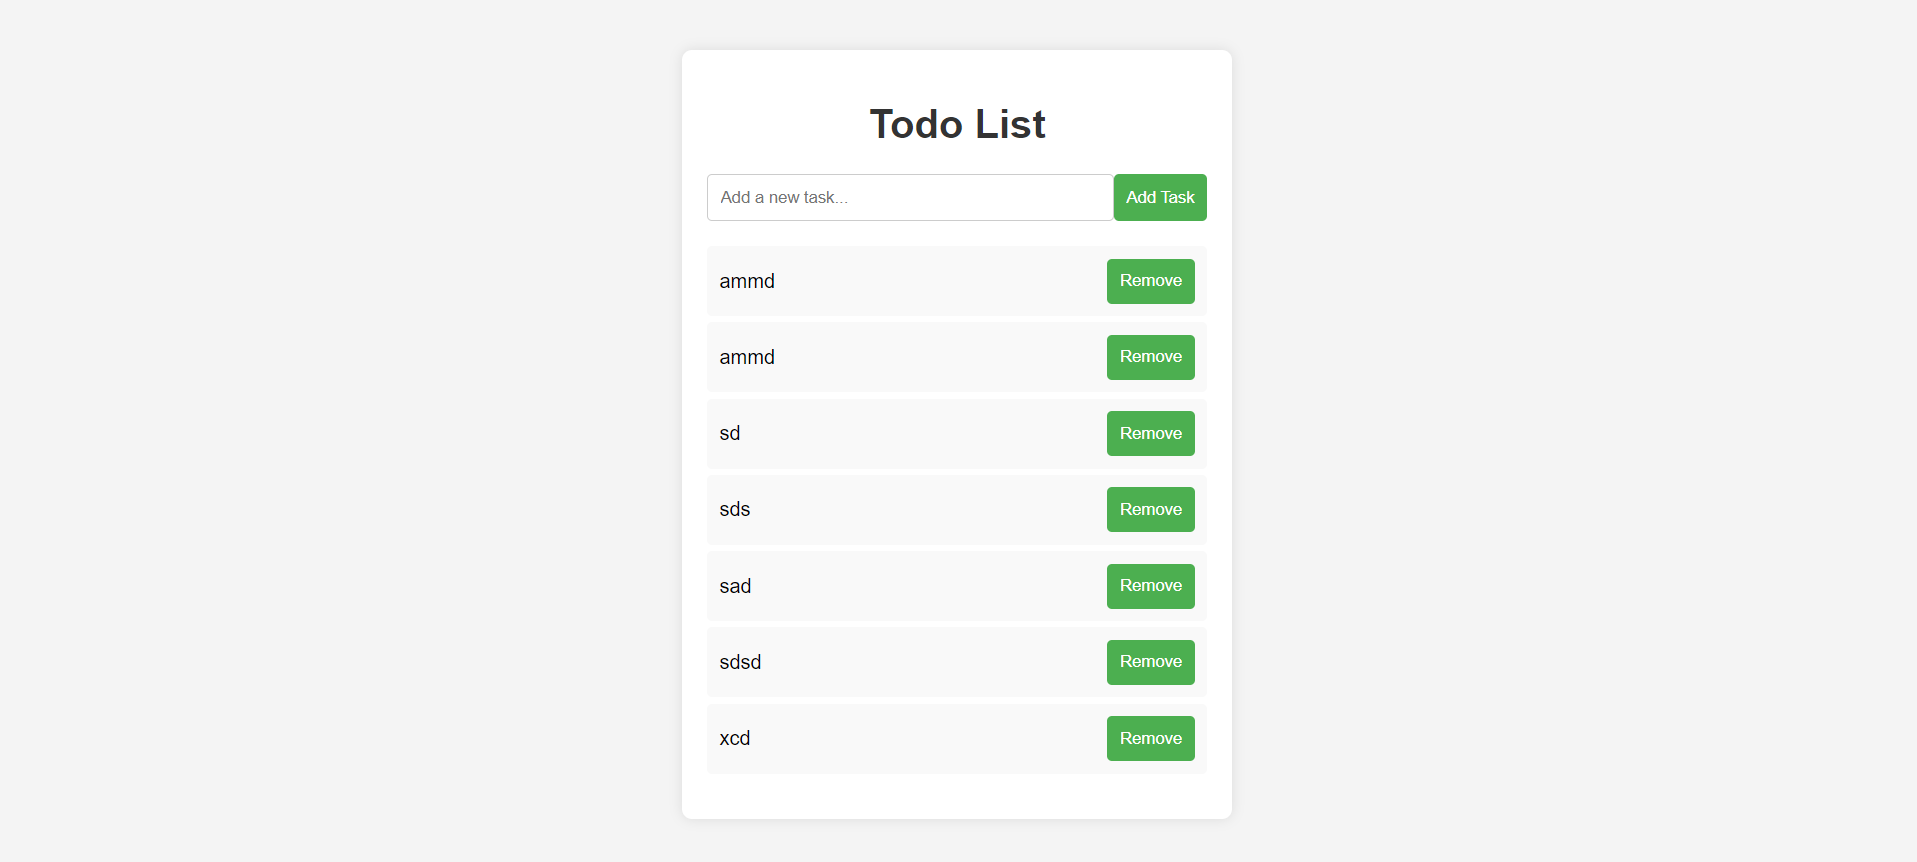
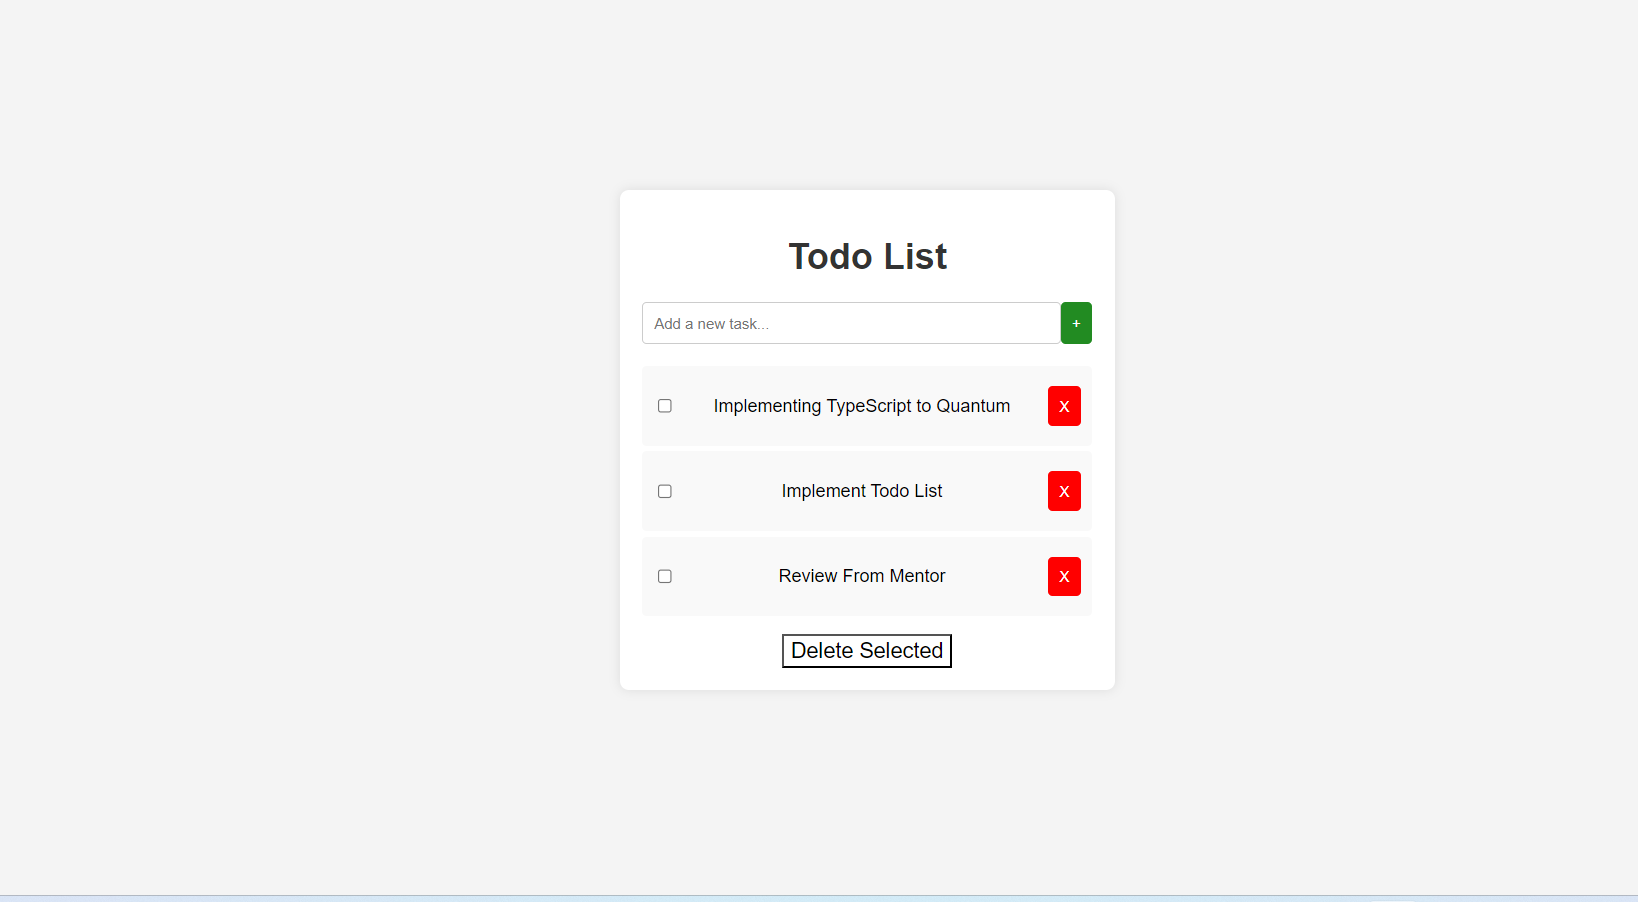
Implementing changes
added multiple selection  functionality

diff --git a/04 TODO LIST/Assets/Scripts/todo.js b/04 TODO LIST/Assets/Scripts/todo.js
@@ -5,7 +5,7 @@ document.addEventListener("DOMContentLoaded", (e) => {
     if (localStorage.getItem("tasks")) {
         JSON.parse(localStorage.getItem("tasks")).forEach(function (value) {
             let li = document.createElement('li');
-            li.innerHTML = value + '<button class="task-remove-btn">Remove</button>';
+            li.innerHTML = "<input class='multiple-selection' type='checkbox'>"+"<p>"+value+"</p>" + '<button class="task-remove-btn">X</button>';
             taskList.appendChild(li);
         });
     }
@@ -15,7 +15,7 @@ document.addEventListener("DOMContentLoaded", (e) => {
         var taskInput = document.getElementById('taskInput');
         if (taskInput.value.trim() !== '') {
             let li = document.createElement('li');
-            li.innerHTML = taskInput.value + '<button class="task-remove-btn">Remove</button>';
+            li.innerHTML = "<input class='multiple-selection' type='checkbox'>"+"<p>"+taskInput.value+"</p>" + '<button class="task-remove-btn">X</button>';
             taskList.appendChild(li);
             saveTaskToLocalStorage(taskInput.value);
             taskInput.value = '';
@@ -23,17 +23,52 @@ document.addEventListener("DOMContentLoaded", (e) => {
         }
     }
     function saveTaskToLocalStorage(task) {
+        let tasks = [];
       
-        var tasks = JSON.parse(localStorage.getItem('tasks')) || [];
+        if (localStorage.tasks) {
+     
+          tasks = JSON.parse(localStorage.tasks);
+        }
+      
         tasks.push(task);
-        localStorage.setItem('tasks', JSON.stringify(tasks));
-    }
+      
+        localStorage.tasks = JSON.stringify(tasks);
+      }
 taskList.addEventListener("click",e=>{
     if(e.target.classList.contains("task-remove-btn"))
-    {
-        e.target.parentElement.remove();
+    {   
+        let value =e.target.parentElement.children[1].innerText;
+        console.log(value);
+       removeTask(value);
+       e.target.parentElement.remove();
     }
-});
 
+});
+document.querySelector("#delete-selected-btn").addEventListener("click",function(event){
+    let selectionList = document.querySelectorAll(".multiple-selection:checked");
+    if(selectionList.length===0)
+    {
+        alert("Nothing Is Selected");
+    }
+    selectionList.forEach(el=>{
+        let value =el.parentElement.children[1].value;
+        console.log(value);
+        removeTask(value);
+        el.parentElement.children[1].parentElement.remove();
+    });
+});
+function removeTask(value)
+{
+    let tasks = [];
+      
+    if (localStorage.tasks) {
+ 
+      tasks = JSON.parse(localStorage.tasks);
+    }
+  
+    tasks = tasks.filter((task) => task !== value);
+    localStorage.tasks = JSON.stringify(tasks);
+    
+}
 
 

diff --git a/04 TODO LIST/Assets/Stylesheets/style.css b/04 TODO LIST/Assets/Stylesheets/style.css
@@ -38,15 +38,37 @@ input {
     border-radius: 4px;
 }
 
-button {
+.task-remove-btn{
+
     padding: 10px;
-    background-color: #4caf50;
-    color: #fff;
+    background-color:red;
+    color: white;
     border: none;
     border-radius: 4px;
     cursor: pointer;
 }
+.task-add-btn{
 
+    padding: 10px;
+    background-color:forestgreen  ;
+    color: white;
+    border: none;
+    border-radius: 4px;
+    cursor: pointer;
+}
+.delete-selected-record-container
+{
+    display: flex;
+    justify-content: center;
+}
+#delete-selected-btn
+{
+    color: black;
+    background: linear-gradient(266deg, white, white);
+    font-size: larger;
+    height: 30px;
+    
+}
 ul {
     list-style-type: none;
     padding: 0;
@@ -54,13 +76,15 @@ ul {
 }
 
 li {
+    display: grid;
+    grid-template-columns: auto 1fr auto;
     background-color: #f9f9f9;
     padding: 10px;
     margin-bottom: 5px;
     border-radius: 4px;
-    display: flex;
     justify-content: space-between;
     align-items: center;
+    text-align: center;
 }
 
 @media screen and (min-width: 600px) {

diff --git a/04 TODO LIST/index.html b/04 TODO LIST/index.html
@@ -10,9 +10,11 @@
     <div class="todo-container">
         <h1>Todo List</h1>
         <div class="todo-action-container"><input type="text" id="taskInput" placeholder="Add a new task...">
-        <button onclick="addTask()">Add Task</button></div>
+        <button class="task-add-btn" onclick="addTask()">+</button></div>
         <ul id="taskList"></ul>
+        <div class="delete-selected-record-container"><button id="delete-selected-btn">Delete Selected</button></div>
     </div>
+    
     <script src="./Assets/Scripts/todo.js"></script>
 </body>
 </html>
